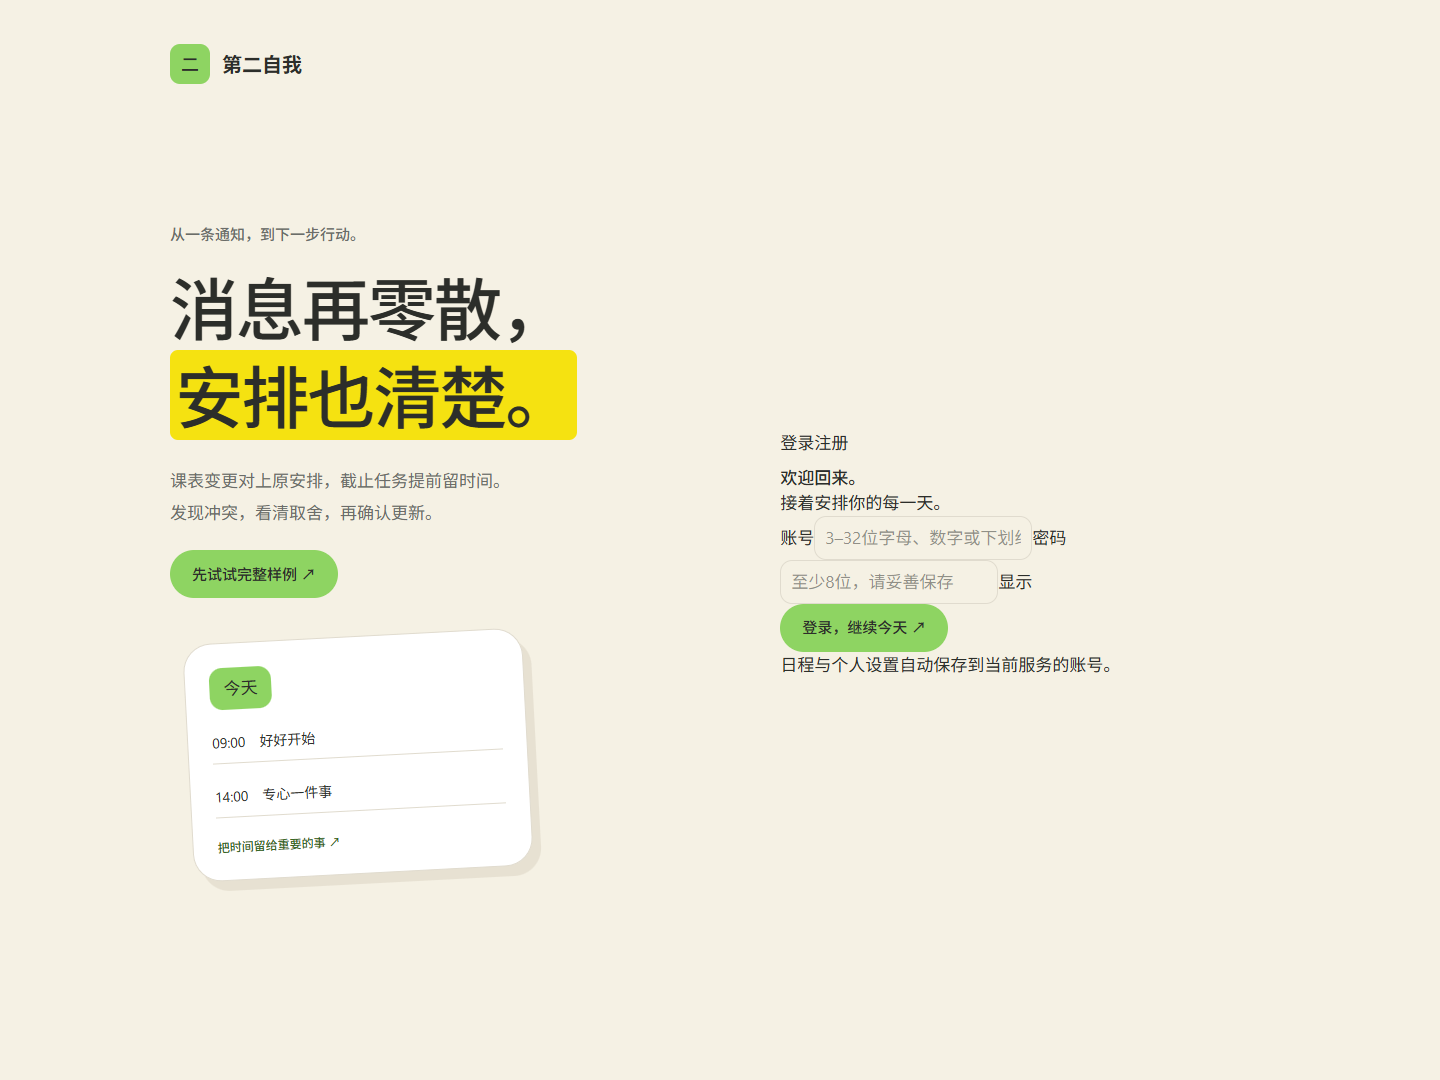
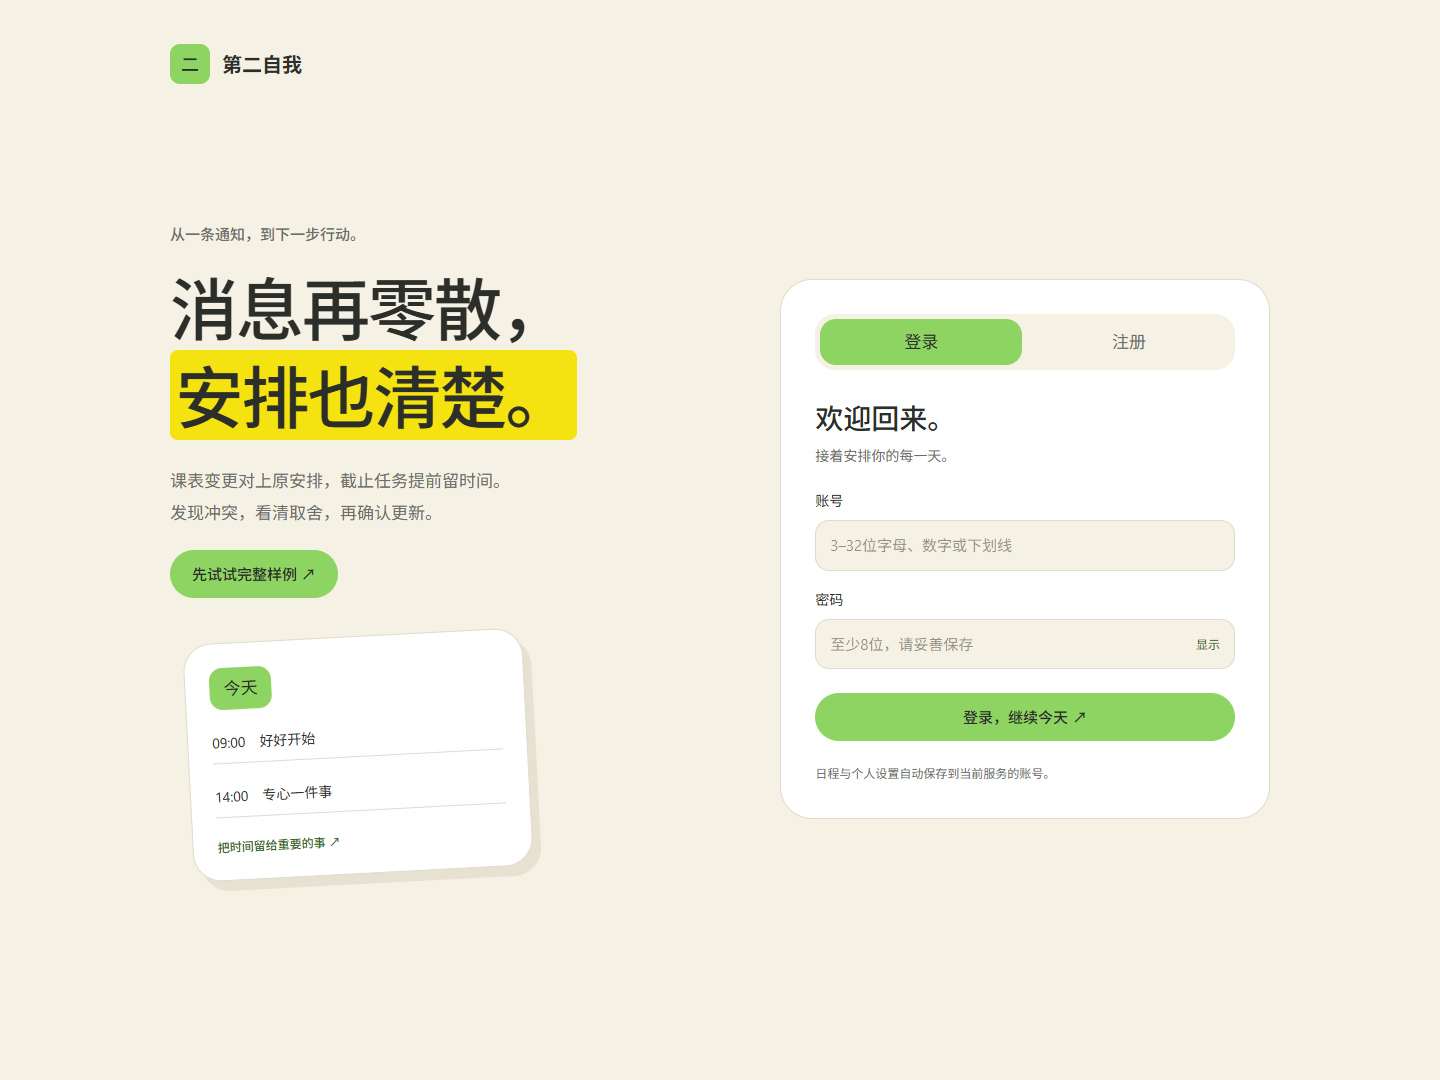
fix: restore account layout and update Next.js

Changed region(s): [[0.5312, 0.2444, 0.9062, 0.7639]]

diff --git a/src/app/globals.css b/src/app/globals.css
@@ -547,6 +547,8 @@ input:not([type=checkbox]),select{border:1px solid var(--sand);background:var(--
 
 /* Account entry follows the same cream, green and ink system. */
 .auth-page{max-width:1180px;margin:0 auto;padding:32px 40px 56px;min-height:100dvh}.auth-brand{display:inline-flex;gap:12px;align-items:center;text-decoration:none;color:var(--ink);font-size:20px;font-weight:600}.auth-layout{display:grid;grid-template-columns:1.05fr 1fr;align-items:center;gap:96px;min-height:calc(100dvh - 150px)}.auth-intro h1{font-size:clamp(44px,5vw,68px);line-height:1.3;letter-spacing:-2px;font-weight:500;margin:18px 0 24px}.auth-intro h1 mark{background:var(--yellow);color:var(--ink);padding:0 .08em;border-radius:8px;box-decoration-break:clone}.auth-intro>p:last-of-type{font-size:17px;line-height:1.9;color:var(--muted)}.auth-art{display:grid;gap:12px;width:min(100%,340px);background:white;border:1px solid var(--sand);border-radius:28px;padding:24px;transform:rotate(-3deg);margin:38px 0 0 18px;box-shadow:8px 10px 0 #e7e1d2}.auth-art>span{background:var(--green);padding:8px 14px;border-radius:13px;justify-self:start}.auth-art i{font-style:normal;font-size:14px;border-bottom:1px solid var(--sand);padding:10px 0}.auth-art b{font-size:12px;font-weight:500;color:#376625;padding-top:8px}
+.account-wait{min-height:100dvh;display:grid;place-items:center;padding:24px}
+.auth-card{background:white;border:1px solid var(--sand);border-radius:32px;padding:34px;min-width:0}.auth-tabs{display:flex;gap:6px;background:var(--cream);padding:5px;border-radius:20px;margin-bottom:28px}.auth-tabs button{flex:1;border-radius:16px;color:var(--muted);min-height:46px}.auth-tabs button[aria-pressed=true]{background:var(--green);color:var(--ink)}.auth-card h2{font-size:28px;line-height:1.4;font-weight:500}.auth-subtitle{font-size:14px;color:var(--muted);margin:8px 0 24px}.auth-card form{display:grid;gap:18px}.auth-card label{display:grid;gap:9px;font-size:14px}.auth-card input{width:100%;min-width:0;border:1px solid var(--sand);background:var(--cream);border-radius:14px;padding:13px 14px;min-height:50px;font-size:15px}.auth-card input:focus{outline:2px solid var(--green);outline-offset:2px}.password-field{position:relative;display:flex}.password-field input{padding-right:60px}.password-field button{position:absolute;right:6px;top:3px;font-size:12px;padding:0 9px;color:#376625}.auth-submit{width:100%;margin-top:6px}.auth-footnote{font-size:12px;line-height:1.7;color:var(--muted);margin-top:22px}.account-heading{display:flex;align-items:center;justify-content:space-between;gap:12px}.account-heading>span{font-size:13px;color:var(--muted);overflow-wrap:anywhere}.account-settings{display:grid;gap:14px}.account-sync-status{padding:12px 14px;background:#e4f3d8;color:#31521f;border-radius:14px;font-size:13px}.account-sync-status.is-offline,.account-sync-status.is-unsaved,.account-sync-status.is-conflict,.account-sync-status.is-expired{background:#fff0cd;color:#76510b}.account-logout{justify-self:start;background:var(--cream);color:#943e29}
 @media(max-width:800px){.auth-page{padding:24px 20px 36px}.auth-layout{gap:28px;grid-template-columns:1fr;min-height:auto;margin-top:28px}.auth-intro h1{font-size:42px;margin:12px 0}.auth-intro .eyebrow{font-size:11px}.auth-intro>p:last-of-type{font-size:14px}.auth-art{display:none}.auth-card{padding:24px;border-radius:26px}.auth-card h2{font-size:25px}.auth-tabs{margin-bottom:22px}.auth-card input{font-size:16px}.auth-brand{font-size:18px}.auth-intro h1 br{display:none}.auth-intro h1 mark{display:inline-block}.account-heading{align-items:start}}
 
 

diff --git a/docs/TEST-REPORT.md b/docs/TEST-REPORT.md
@@ -1,5 +1,7 @@
 # 验证报告
 
+2026-11-17 补充：修复登录、注册及账号设置样式；390、1440 宽度下的登录注册布局及账号流程回归通过。Next.js 与 eslint-config-next 更新至 16.4.6，官方 registry 审计 0 项已知公告；490 项测试与生产构建通过。
+
 2026-11-14；Windows、Node.js 24.14.0、npm 11.9.0、Asia/Shanghai。
 
 | 检查 | 结果 |
